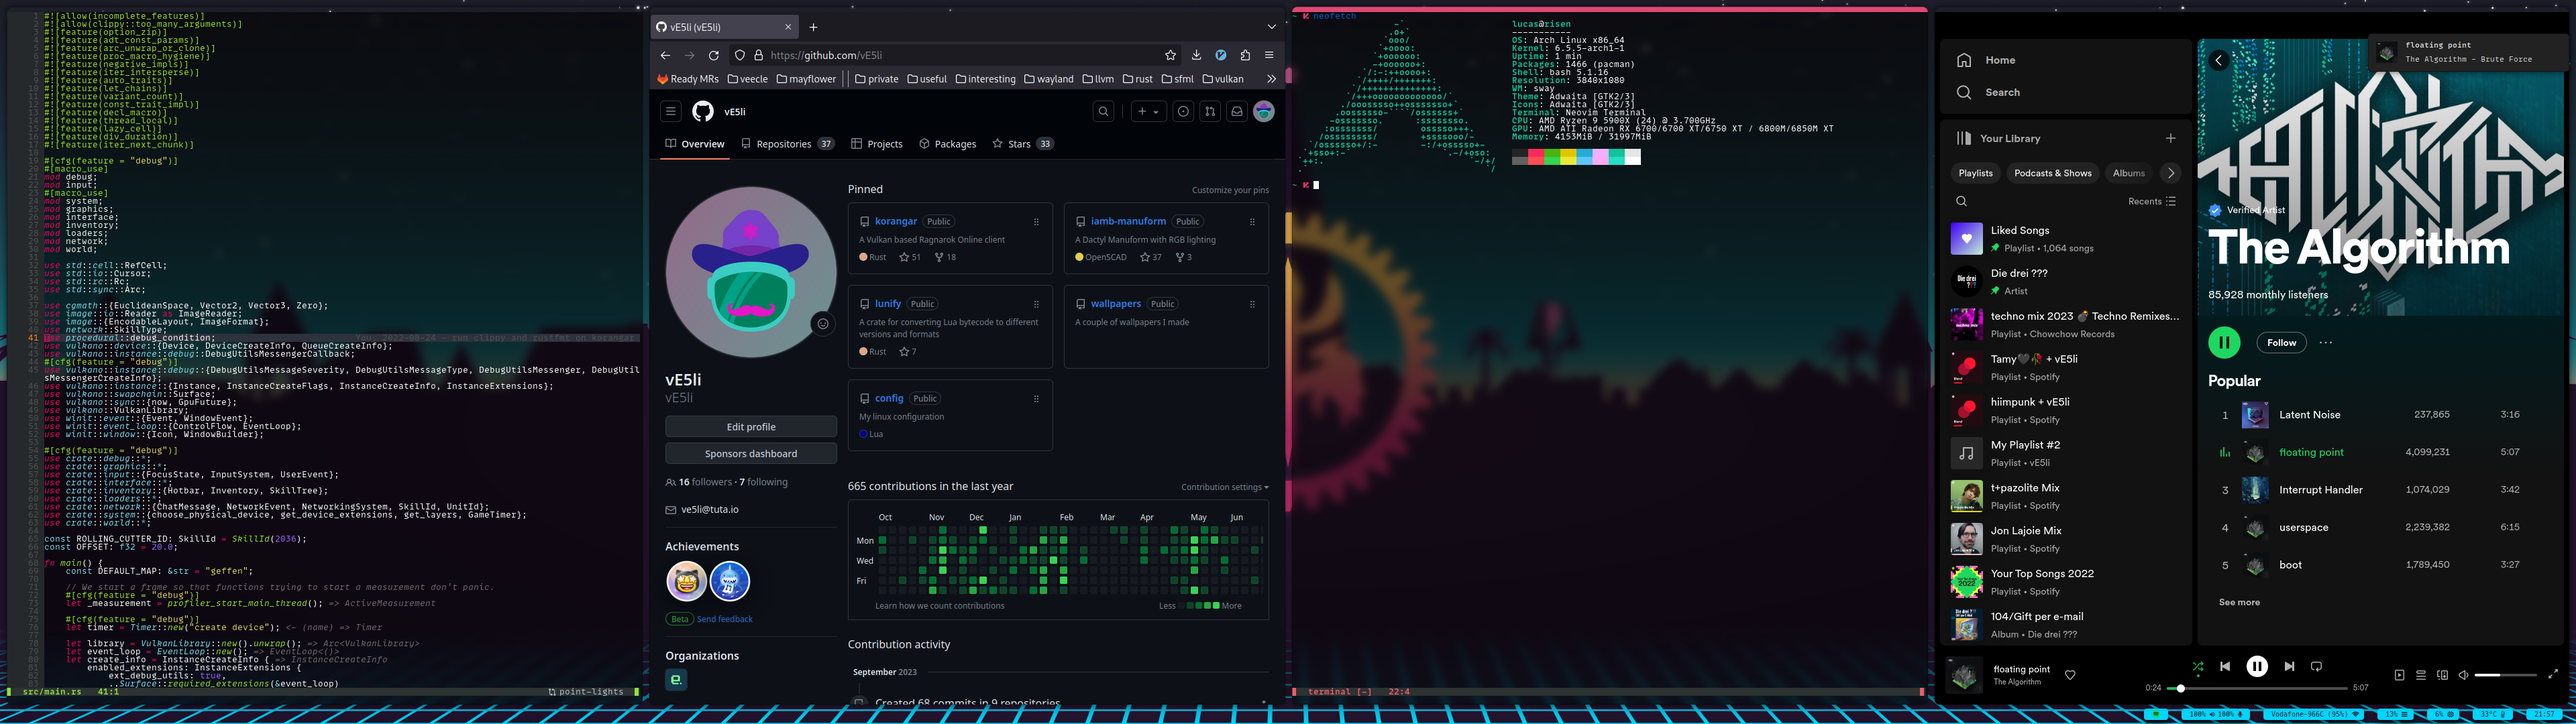
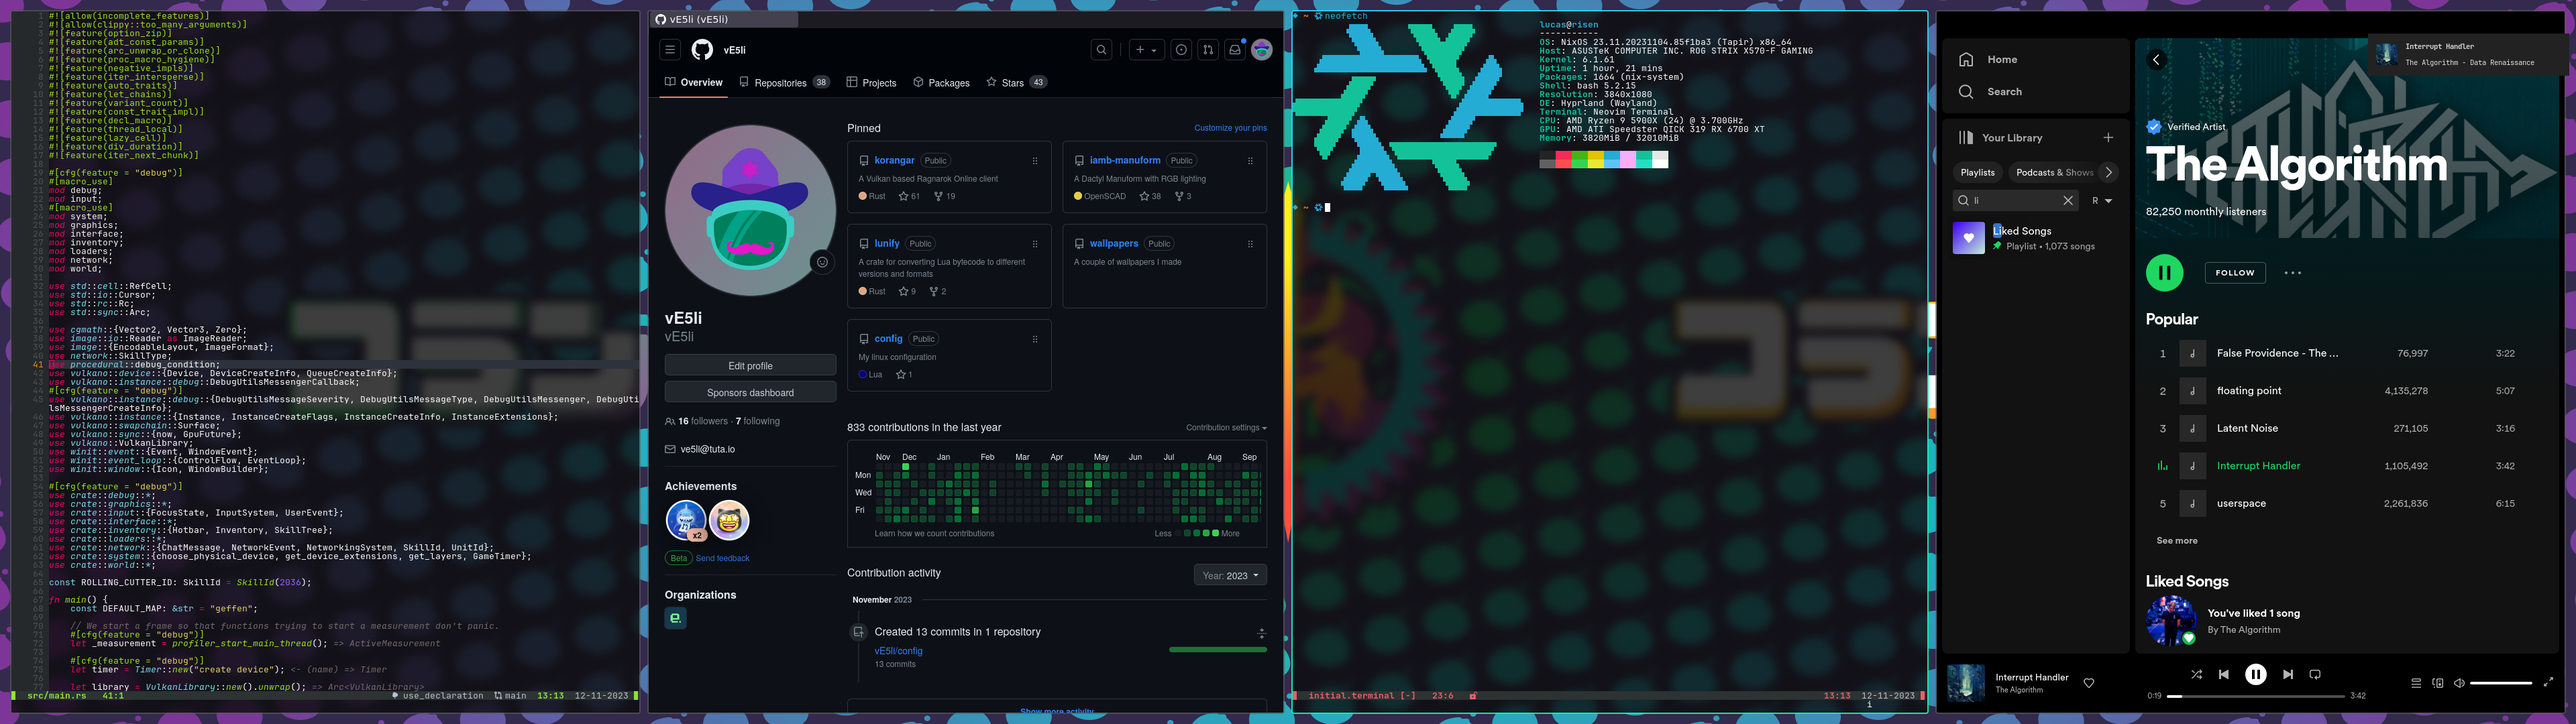
Update screenshot and README

diff --git a/.github/README.md b/.github/README.md
@@ -1,5 +1,5 @@
 # Config
-This repository contains my Arch Linux configuration. Most of the customization is in `.config/nvim` and `.config/sway`.
+This repository contains my dotfiles (currently on NixOS). Most of the customization is in `.config/nvim`, `.config/fish` and `.config/hypr`.
 
 #### Here is a screenshot of what my setup looks like:
 ![screenshot](screenshot.png)
